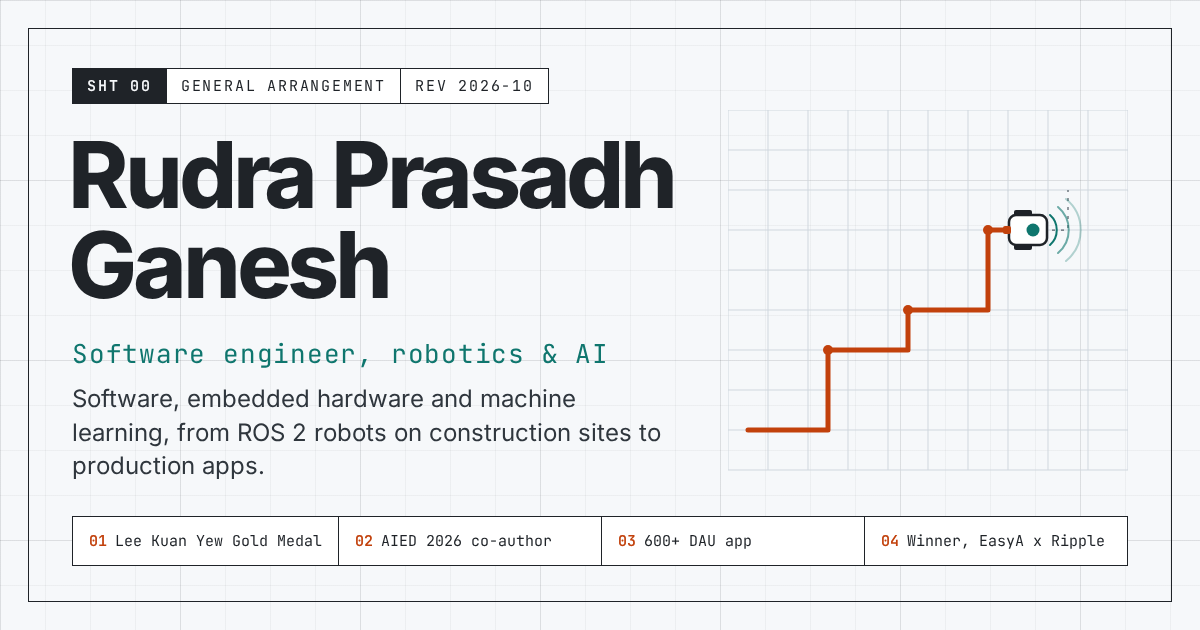
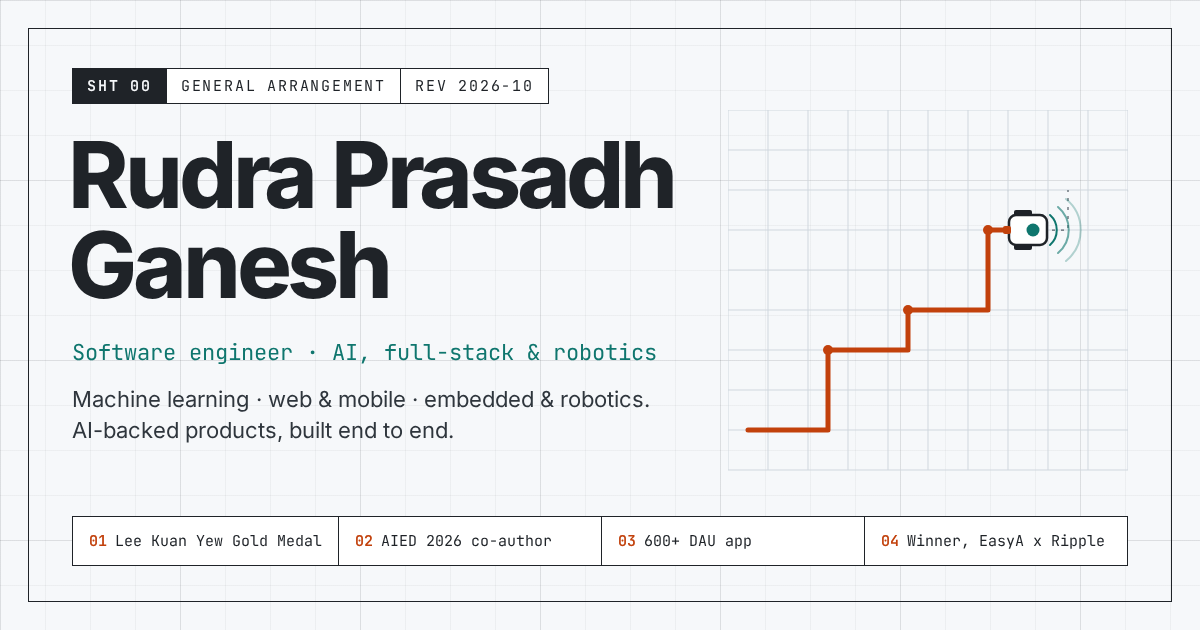
Rebalance portfolio toward AI and software engineering

Changed region(s): [[0.0617, 0.5429, 0.555, 0.754]]

diff --git a/src/content.ts b/src/content.ts
@@ -1,9 +1,9 @@
 // Every word on the site lives in this file. Edit here; the components only lay it out.
 // Product names that must not break across lines ("ROS 2") use a no-break space, written \u00a0.
 
-export type Domain = "Robotics" | "ML" | "Web" | "Mobile" | "Embedded" | "Blockchain";
+export type Domain = "AI & ML" | "Web" | "Mobile" | "Robotics" | "Embedded" | "Blockchain";
 
-export const DOMAINS: readonly Domain[] = ["Robotics", "ML", "Web", "Mobile", "Embedded", "Blockchain"];
+export const DOMAINS: readonly Domain[] = ["AI & ML", "Web", "Mobile", "Robotics", "Embedded", "Blockchain"];
 
 export interface Link {
   label: string;
@@ -28,8 +28,10 @@ export const REVISION = "2026-10";
 
 export const person = {
   name: "Rudra Prasadh Ganesh",
-  headline: "Software engineer, robotics & AI",
-  breadth: "I work across software, embedded hardware and machine learning, from ROS\u00a02 robots on construction sites to production web platforms.",
+  // Word joiners and no-break spaces keep "AI, full-stack & robotics" on one line.
+  headline: "Software engineer · AI,\u00a0full-\u2060stack\u00a0&\u00a0robotics",
+  breadth:
+    "Machine learning · web & mobile · embedded & robotics. I build AI-backed products end to end, from research models and RAG platforms to production apps, and now ROS\u00a02 robots.",
   location: "Singapore",
   email: "grudraprasadh@gmail.com",
   github: "https://github.com/Unknown-Blaze",
@@ -61,13 +63,16 @@ export interface NowItem {
   stack: readonly string[];
 }
 
+export const nowIntro =
+  "Software engineer building AI-backed products end to end: the models, the services around them and the apps people use.";
+
 export const now: readonly NowItem[] = [
   {
     org: "Fabrica AI",
     role: "Software Engineer",
     since: "Jul 2026",
     summary:
-      "Sole software engineer on the ROS\u00a02 codebase of an autonomous tile-grouting robot for construction, deployed commercially in Singapore and Australia. I own perception, SLAM and navigation, motion planning and behaviour trees, and direct the intern engineers.",
+      "Sole software engineer on the ROS\u00a02 codebase of an autonomous tile-grouting robot for construction, deployed in Singapore and Australia.",
     stack: ["ROS\u00a02", "LiDAR", "SLAM", "Behaviour trees", "Gazebo", "Docker", "GitHub Actions"],
   },
   {
@@ -102,23 +107,6 @@ const shot = (file: string, alt: string): Image => ({ src: `img/${file}.webp`, a
 
 export const work: readonly Work[] = [
   {
-    id: "grouting-robot",
-    name: "Autonomous tile-grouting robot",
-    context: "Fabrica AI · deployed in Singapore and Australia",
-    period: "Jul 2026 – present",
-    domains: ["Robotics", "Embedded"],
-    summary: "The ROS\u00a02 software of a construction robot that grouts tiles on its own.",
-    points: [
-      "Perception with LiDAR and cameras, SLAM and navigation, motion planning and behaviour trees.",
-      "Delivered a complete LiDAR sensor upgrade, from integration to on-site deployment, in one month.",
-      "Behaviour tested in Gazebo, packaged with Docker and GitHub Actions.",
-    ],
-    stack: ["ROS\u00a02", "LiDAR", "SLAM", "Gazebo", "Docker", "GitHub Actions"],
-    callouts: [{ value: "1 month", note: "LiDAR upgrade, integration to site" }],
-    links: [],
-    plate: "robot",
-  },
-  {
     id: "myccds",
     name: "MyCCDS",
     context: "Student platform for NTU's College of Computing and Data Science",
@@ -147,7 +135,7 @@ export const work: readonly Work[] = [
     name: "MHC-peptide binding prediction",
     context: "Final Year Project (graded A), Bioinformatics Lab, NTU · submitted to ICLR 2027",
     period: "Aug 2025 – May 2026",
-    domains: ["ML"],
+    domains: ["AI & ML"],
     summary:
       "ESM-2 (650M) sequence embeddings fused with an AlphaFold-based structural pipeline, fine-tuned with LoRA/PEFT in PyTorch on an NVIDIA A100 80GB.",
     points: [
@@ -181,6 +169,23 @@ export const work: readonly Work[] = [
       { label: "Code", href: "https://github.com/Unknown-Blaze/SC4053-Project" },
     ],
     image: shot("ngodonate", "nGoDonate landing page: Amplify your impact, transparently"),
+  },
+  {
+    id: "grouting-robot",
+    name: "Autonomous tile-grouting robot",
+    context: "Fabrica AI · deployed in Singapore and Australia",
+    period: "Jul 2026 – present",
+    domains: ["Robotics", "Embedded"],
+    summary: "The ROS\u00a02 software of a construction robot that grouts tiles on its own.",
+    points: [
+      "Perception with LiDAR and cameras, SLAM and navigation, motion planning and behaviour trees.",
+      "Delivered a complete LiDAR sensor upgrade, from integration to on-site deployment, in one month.",
+      "Behaviour tested in Gazebo, packaged with Docker and GitHub Actions.",
+    ],
+    stack: ["ROS\u00a02", "LiDAR", "SLAM", "Gazebo", "Docker", "GitHub Actions"],
+    callouts: [{ value: "1 month", note: "LiDAR upgrade, integration to site" }],
+    links: [],
+    plate: "robot",
   },
   {
     id: "synctube",
@@ -235,7 +240,7 @@ export const work: readonly Work[] = [
     name: "LISA 1.0",
     context: "Automotive advisor platform · MISUMI.AI",
     period: "Sep 2025 – Aug 2026",
-    domains: ["Web", "ML"],
+    domains: ["AI & ML", "Web"],
     summary: "An automotive advisor in production across 4 ASEAN markets.",
     points: [
       "Next.js 15 and PostgreSQL with a RAG pipeline over structured Japanese and English automotive listings.",
@@ -250,11 +255,50 @@ export const work: readonly Work[] = [
     links: [],
   },
   {
+    id: "nie-tutoring",
+    name: "Real-time tutoring backend",
+    context: "AI Engineer (part-time) · National Institute of Education, NTU",
+    period: "Jun 2025 – Oct 2025",
+    domains: ["AI & ML", "Web"],
+    summary: "Backend and real-time infrastructure for an intelligent tutoring system.",
+    points: [
+      "One of two primary developers; WebSocket communication with 99.9 percent session stability.",
+      "Organised the 60-participant study behind the AIED 2026 paper I co-authored.",
+    ],
+    stack: ["WebSockets", "Real-time backend"],
+    callouts: [{ value: "99.9%", note: "session stability" }],
+    links: [{ label: "AIED 2026 paper", href: "https://doi.org/10.1007/978-3-032-29791-4_2" }],
+  },
+  {
+    id: "yolo-api",
+    name: "YOLOv8 inference API",
+    context: "Full Stack Engineer Intern · Panasonic R&D Center Singapore",
+    period: "Jan 2025 – Jun 2025",
+    domains: ["AI & ML", "Web"],
+    summary: "An inference API serving YOLOv8, with async processing for real-time workflows.",
+    points: ["Built with FastAPI and packaged with Docker; caching tuned for retrieval speed and latency."],
+    stack: ["FastAPI", "Docker", "YOLOv8", "Python"],
+    callouts: [],
+    links: [],
+  },
+  {
+    id: "birdclef",
+    name: "BirdCLEF on Kaggle",
+    context: "SC4000 course project · Kaggle competition",
+    period: "",
+    domains: ["AI & ML"],
+    summary: "A machine-learning entry for BirdCLEF, the Kaggle competition on identifying bird species from audio.",
+    points: [],
+    stack: ["Machine learning", "Kaggle"],
+    callouts: [],
+    links: [],
+  },
+  {
     id: "edge-ai",
     name: "Edge-AI security pipeline",
     context: "President Research Scholar, URECA · ODROID N2",
     period: "Aug 2024 – Apr 2025",
-    domains: ["Embedded", "ML"],
+    domains: ["AI & ML", "Embedded"],
     summary: "Motion detection for an IoT security system, running on the edge.",
     points: [
       "96 percent motion-detection accuracy at 180 ms latency on an ODROID.",
@@ -270,7 +314,7 @@ export const work: readonly Work[] = [
     name: "Sentiment analysis platform",
     context: "SC4001 group project",
     period: "Jan 2024 – Apr 2024",
-    domains: ["ML", "Web"],
+    domains: ["AI & ML", "Web"],
     summary: "End-to-end text analytics with model-serving APIs.",
     points: [
       "Built preprocessing and model-inference endpoints for sentiment classification.",
@@ -279,6 +323,36 @@ export const work: readonly Work[] = [
     stack: ["NLP", "Model-serving APIs", "Dashboards"],
     callouts: [],
     links: [{ label: "Code", href: "https://github.com/Unknown-Blaze/SC4001-Group-Project" }],
+  },
+  {
+    id: "modec-analytics",
+    name: "Sustainability analytics platform",
+    context: "Software Engineer Intern · MODEC",
+    period: "Jun 2025 – Aug 2025",
+    domains: ["Web"],
+    summary: "A full-stack web application for sustainability and environmental analytics, delivered independently.",
+    points: [
+      "React workflows for vendor data collection on a Django REST Framework backend handling 500 or more concurrent requests.",
+      "Redis caching cut retrieval time by 40 percent; IoT logs ingested through AWS Lambda and Amazon S3.",
+    ],
+    stack: ["React", "Django", "DRF", "Redis", "AWS Lambda", "Amazon S3"],
+    callouts: [
+      { value: "500+", note: "concurrent requests" },
+      { value: "−40%", note: "retrieval time" },
+    ],
+    links: [],
+  },
+  {
+    id: "ccds-alumni",
+    name: "CCDS alumni platform",
+    context: "Full Stack Developer · NTU College of Computing and Data Science",
+    period: "May 2024 – Jul 2025",
+    domains: ["Web"],
+    summary: "A networking platform connecting alumni and students for startup and event collaboration.",
+    points: ["Led development end to end, from features to backend and site performance."],
+    stack: ["WordPress", "PHP", "SQL"],
+    callouts: [],
+    links: [],
   },
   {
     id: "vr-chem",
@@ -609,16 +683,6 @@ export interface SkillGroup {
 
 export const skills: readonly SkillGroup[] = [
   {
-    group: "Robotics",
-    items:
-      "ROS, ROS\u00a02, robot perception, robot control, autonomous navigation, simulation, reinforcement learning, LiDAR, computer vision, sensor fusion",
-  },
-  {
-    group: "Embedded and hardware",
-    items:
-      "FreeRTOS, STM32, STM32F4, XMC4800, MSP432, ESP32, Arduino, ODROID, EtherCAT, CAN bus, I2C, SPI, UART, sensor integration, motor control, real-time scheduling, firmware debugging",
-  },
-  {
     group: "AI/ML and LLM systems",
     items:
       "PyTorch, TensorFlow, Scikit-Learn, Hugging Face, Transformers, LoRA, PEFT, RAG, LangChain, LangGraph, Ollama, prompt engineering, fine-tuning, model evaluation",
@@ -658,6 +722,16 @@ export const skills: readonly SkillGroup[] = [
     group: "Cloud and DevOps",
     items:
       "Alibaba Cloud, AWS, AWS Lambda, Amazon S3, AWS Elastic Beanstalk, Amazon SageMaker, Docker, Kubernetes, Terraform, CI/CD, GitHub Actions, Vercel, deployment automation",
+  },
+  {
+    group: "Robotics",
+    items:
+      "ROS, ROS\u00a02, robot perception, robot control, autonomous navigation, simulation, reinforcement learning, LiDAR, computer vision, sensor fusion",
+  },
+  {
+    group: "Embedded and hardware",
+    items:
+      "FreeRTOS, STM32, STM32F4, XMC4800, MSP432, ESP32, Arduino, ODROID, EtherCAT, CAN bus, I2C, SPI, UART, sensor integration, motor control, real-time scheduling, firmware debugging",
   },
   {
     group: "Software practices",

diff --git a/index.html b/index.html
@@ -6,7 +6,7 @@
     <title>Rudra Prasadh Ganesh</title>
     <meta
       name="description"
-      content="Rudra Prasadh Ganesh, software engineer in robotics and AI in Singapore. ROS 2 robots, embedded firmware, machine learning research and production web and mobile apps."
+      content="Rudra Prasadh Ganesh, software engineer in Singapore working across AI, full-stack and robotics. Machine learning research, RAG platforms, production web and mobile apps, and ROS 2 robots."
     />
     <link rel="canonical" href="https://unknown-blaze.github.io/portfolio/" />
     <meta name="color-scheme" content="light dark" />
@@ -16,21 +16,21 @@
 
     <meta property="og:type" content="website" />
     <meta property="og:site_name" content="Rudra Prasadh Ganesh" />
-    <meta property="og:title" content="Rudra Prasadh Ganesh · Software engineer, robotics & AI" />
+    <meta property="og:title" content="Rudra Prasadh Ganesh · Software engineer · AI, full-stack & robotics" />
     <meta
       property="og:description"
-      content="ROS 2 robots on construction sites, embedded firmware, machine learning research and production web and mobile apps."
+      content="AI-backed products built end to end: machine learning research, RAG platforms, production web and mobile apps, and ROS 2 robots."
     />
     <meta property="og:url" content="https://unknown-blaze.github.io/portfolio/" />
     <meta property="og:image" content="https://unknown-blaze.github.io/portfolio/og.png" />
     <meta property="og:image:width" content="1200" />
     <meta property="og:image:height" content="630" />
-    <meta property="og:image:alt" content="Rudra Prasadh Ganesh, software engineer, robotics and AI, drawn as an engineering sheet" />
+    <meta property="og:image:alt" content="Rudra Prasadh Ganesh, software engineer in AI, full-stack and robotics, drawn as an engineering sheet" />
     <meta name="twitter:card" content="summary_large_image" />
-    <meta name="twitter:title" content="Rudra Prasadh Ganesh · Software engineer, robotics & AI" />
+    <meta name="twitter:title" content="Rudra Prasadh Ganesh · Software engineer · AI, full-stack & robotics" />
     <meta
       name="twitter:description"
-      content="ROS 2 robots on construction sites, embedded firmware, machine learning research and production web and mobile apps."
+      content="AI-backed products built end to end: machine learning research, RAG platforms, production web and mobile apps, and ROS 2 robots."
     />
     <meta name="twitter:image" content="https://unknown-blaze.github.io/portfolio/og.png" />
 
@@ -39,7 +39,7 @@
         "@context": "https://schema.org",
         "@type": "Person",
         "name": "Rudra Prasadh Ganesh",
-        "jobTitle": "Software Engineer",
+        "jobTitle": "Software Engineer (AI, full-stack and robotics)",
         "worksFor": { "@type": "Organization", "name": "Fabrica AI" },
         "alumniOf": { "@type": "CollegeOrUniversity", "name": "Nanyang Technological University" },
         "email": "mailto:grudraprasadh@gmail.com",
@@ -65,7 +65,7 @@
   </head>
   <body>
     <div id="root"></div>
-    <noscript><p style="padding: 1rem">Rudra Prasadh Ganesh, software engineer, robotics and AI. Email grudraprasadh@gmail.com.</p></noscript>
+    <noscript><p style="padding: 1rem">Rudra Prasadh Ganesh, software engineer: AI, full-stack and robotics. Email grudraprasadh@gmail.com.</p></noscript>
     <script type="module" src="/src/main.tsx"></script>
   </body>
 </html>

diff --git a/scripts/og-card.html b/scripts/og-card.html
@@ -24,8 +24,8 @@
       .tb span { padding: 7px 14px; } .tb span + span { border-left: 1.5px solid #1f2328; }
       .tb span:first-child { background: #1f2328; color: #f6f8fa; font-weight: 600; }
       h1 { position: absolute; left: 68px; top: 130px; margin: 0; font-size: 92px; line-height: .98; letter-spacing: -.045em; font-weight: 760; width: 640px; }
-      .role { position: absolute; left: 72px; top: 336px; font-size: 26px; color: #0f766e; letter-spacing: .03em; }
-      .breadth { position: absolute; left: 72px; top: 382px; font-size: 24px; color: #2f363d; width: 600px; line-height: 1.4; }
+      .role { position: absolute; left: 72px; top: 338px; font-size: 22px; color: #0f766e; letter-spacing: 0; }
+      .breadth { position: absolute; left: 72px; top: 384px; font-size: 22px; color: #2f363d; width: 640px; white-space: nowrap; line-height: 1.4; }
       .facts { position: absolute; left: 72px; right: 72px; bottom: 64px; display: flex; border: 1.5px solid #1f2328; background: #fff; font-size: 16px; }
       .facts span { flex: 1; padding: 14px 16px; white-space: nowrap; font-size: 15px; } .facts span + span { border-left: 1.5px solid #1f2328; }
       .facts b { color: #c2410c; font-weight: 600; margin-right: 8px; }
@@ -37,8 +37,8 @@
     <div class="frame"></div>
     <p class="tb mono"><span>SHT 00</span><span>GENERAL ARRANGEMENT</span><span>REV 2026-10</span></p>
     <h1>Rudra Prasadh Ganesh</h1>
-    <p class="role mono">Software engineer, robotics &amp; AI</p>
-    <p class="breadth">Software, embedded hardware and machine learning, from ROS 2 robots on construction sites to production apps.</p>
+    <p class="role mono">Software engineer · AI, full-stack &amp; robotics</p>
+    <p class="breadth">Machine learning · web &amp; mobile · embedded &amp; robotics.<br>AI-backed products, built end to end.</p>
     <svg width="400" height="380" viewBox="0 0 400 380" style="top: 110px">
       <g stroke="#d0d7de" stroke-width="1">
         <path d="M0 0V360M40 0V360M80 0V360M120 0V360M160 0V360M200 0V360M240 0V360M280 0V360M320 0V360M360 0V360M400 0V360" />

diff --git a/src/components/Work.tsx b/src/components/Work.tsx
@@ -10,7 +10,7 @@ import { SheetHead } from "./SheetHead";
 type Filter = Domain | "All";
 
 function Links({ item }: { item: WorkItem }) {
-  if (item.links.length === 0) return null;
+  if (item.links.length === 0) return <p className="work-links not-public mono">Not public</p>;
   return (
     <p className="work-links">
       {item.links.map((l) => (
@@ -120,7 +120,7 @@ export function Work() {
   return (
     <section id="work" aria-labelledby="work-title" className="section">
       <SheetHead id="work-title" no="02" label="Selected work" title="Selected work">
-        Apps in production, research, robots and hackathon builds. Filter by domain.
+        AI systems, production apps, research and robots. Filter by domain.
       </SheetHead>
       <div className="filters" role="group" aria-label="Filter work by domain">
         {(["All", ...DOMAINS] as const).map((d) => (

diff --git a/src/components/Now.tsx b/src/components/Now.tsx
@@ -1,11 +1,13 @@
-import { now } from "../content";
+import { now, nowIntro } from "../content";
 import { Chips } from "./Chips";
 import { SheetHead } from "./SheetHead";
 
 export function Now() {
   return (
     <section id="now" aria-labelledby="now-title" className="section">
-      <SheetHead id="now-title" no="01" label="Now" title="What I'm building now" />
+      <SheetHead id="now-title" no="01" label="Now" title="What I'm building now">
+        {nowIntro}
+      </SheetHead>
       <div className="now-grid">
         {now.map((n) => (
           <article key={n.org} className="panel now-card">

diff --git a/src/styles.css b/src/styles.css
@@ -1567,3 +1567,10 @@ ol {
     transition: none !important;
   }
 }
+
+.not-public {
+  font-size: 0.8rem;
+  letter-spacing: 0.06em;
+  text-transform: uppercase;
+  color: var(--muted);
+}

diff --git a/README.md b/README.md
@@ -1,6 +1,6 @@
 # portfolio
 
-The personal site of Rudra Prasadh Ganesh, software engineer in robotics and AI:
+The personal site of Rudra Prasadh Ganesh, software engineer working across AI, full-stack and robotics:
 <https://unknown-blaze.github.io/portfolio/>
 
 ![The site's opening sheet: name, role, and a robot laying a grout line across a tile grid](public/og.png)
